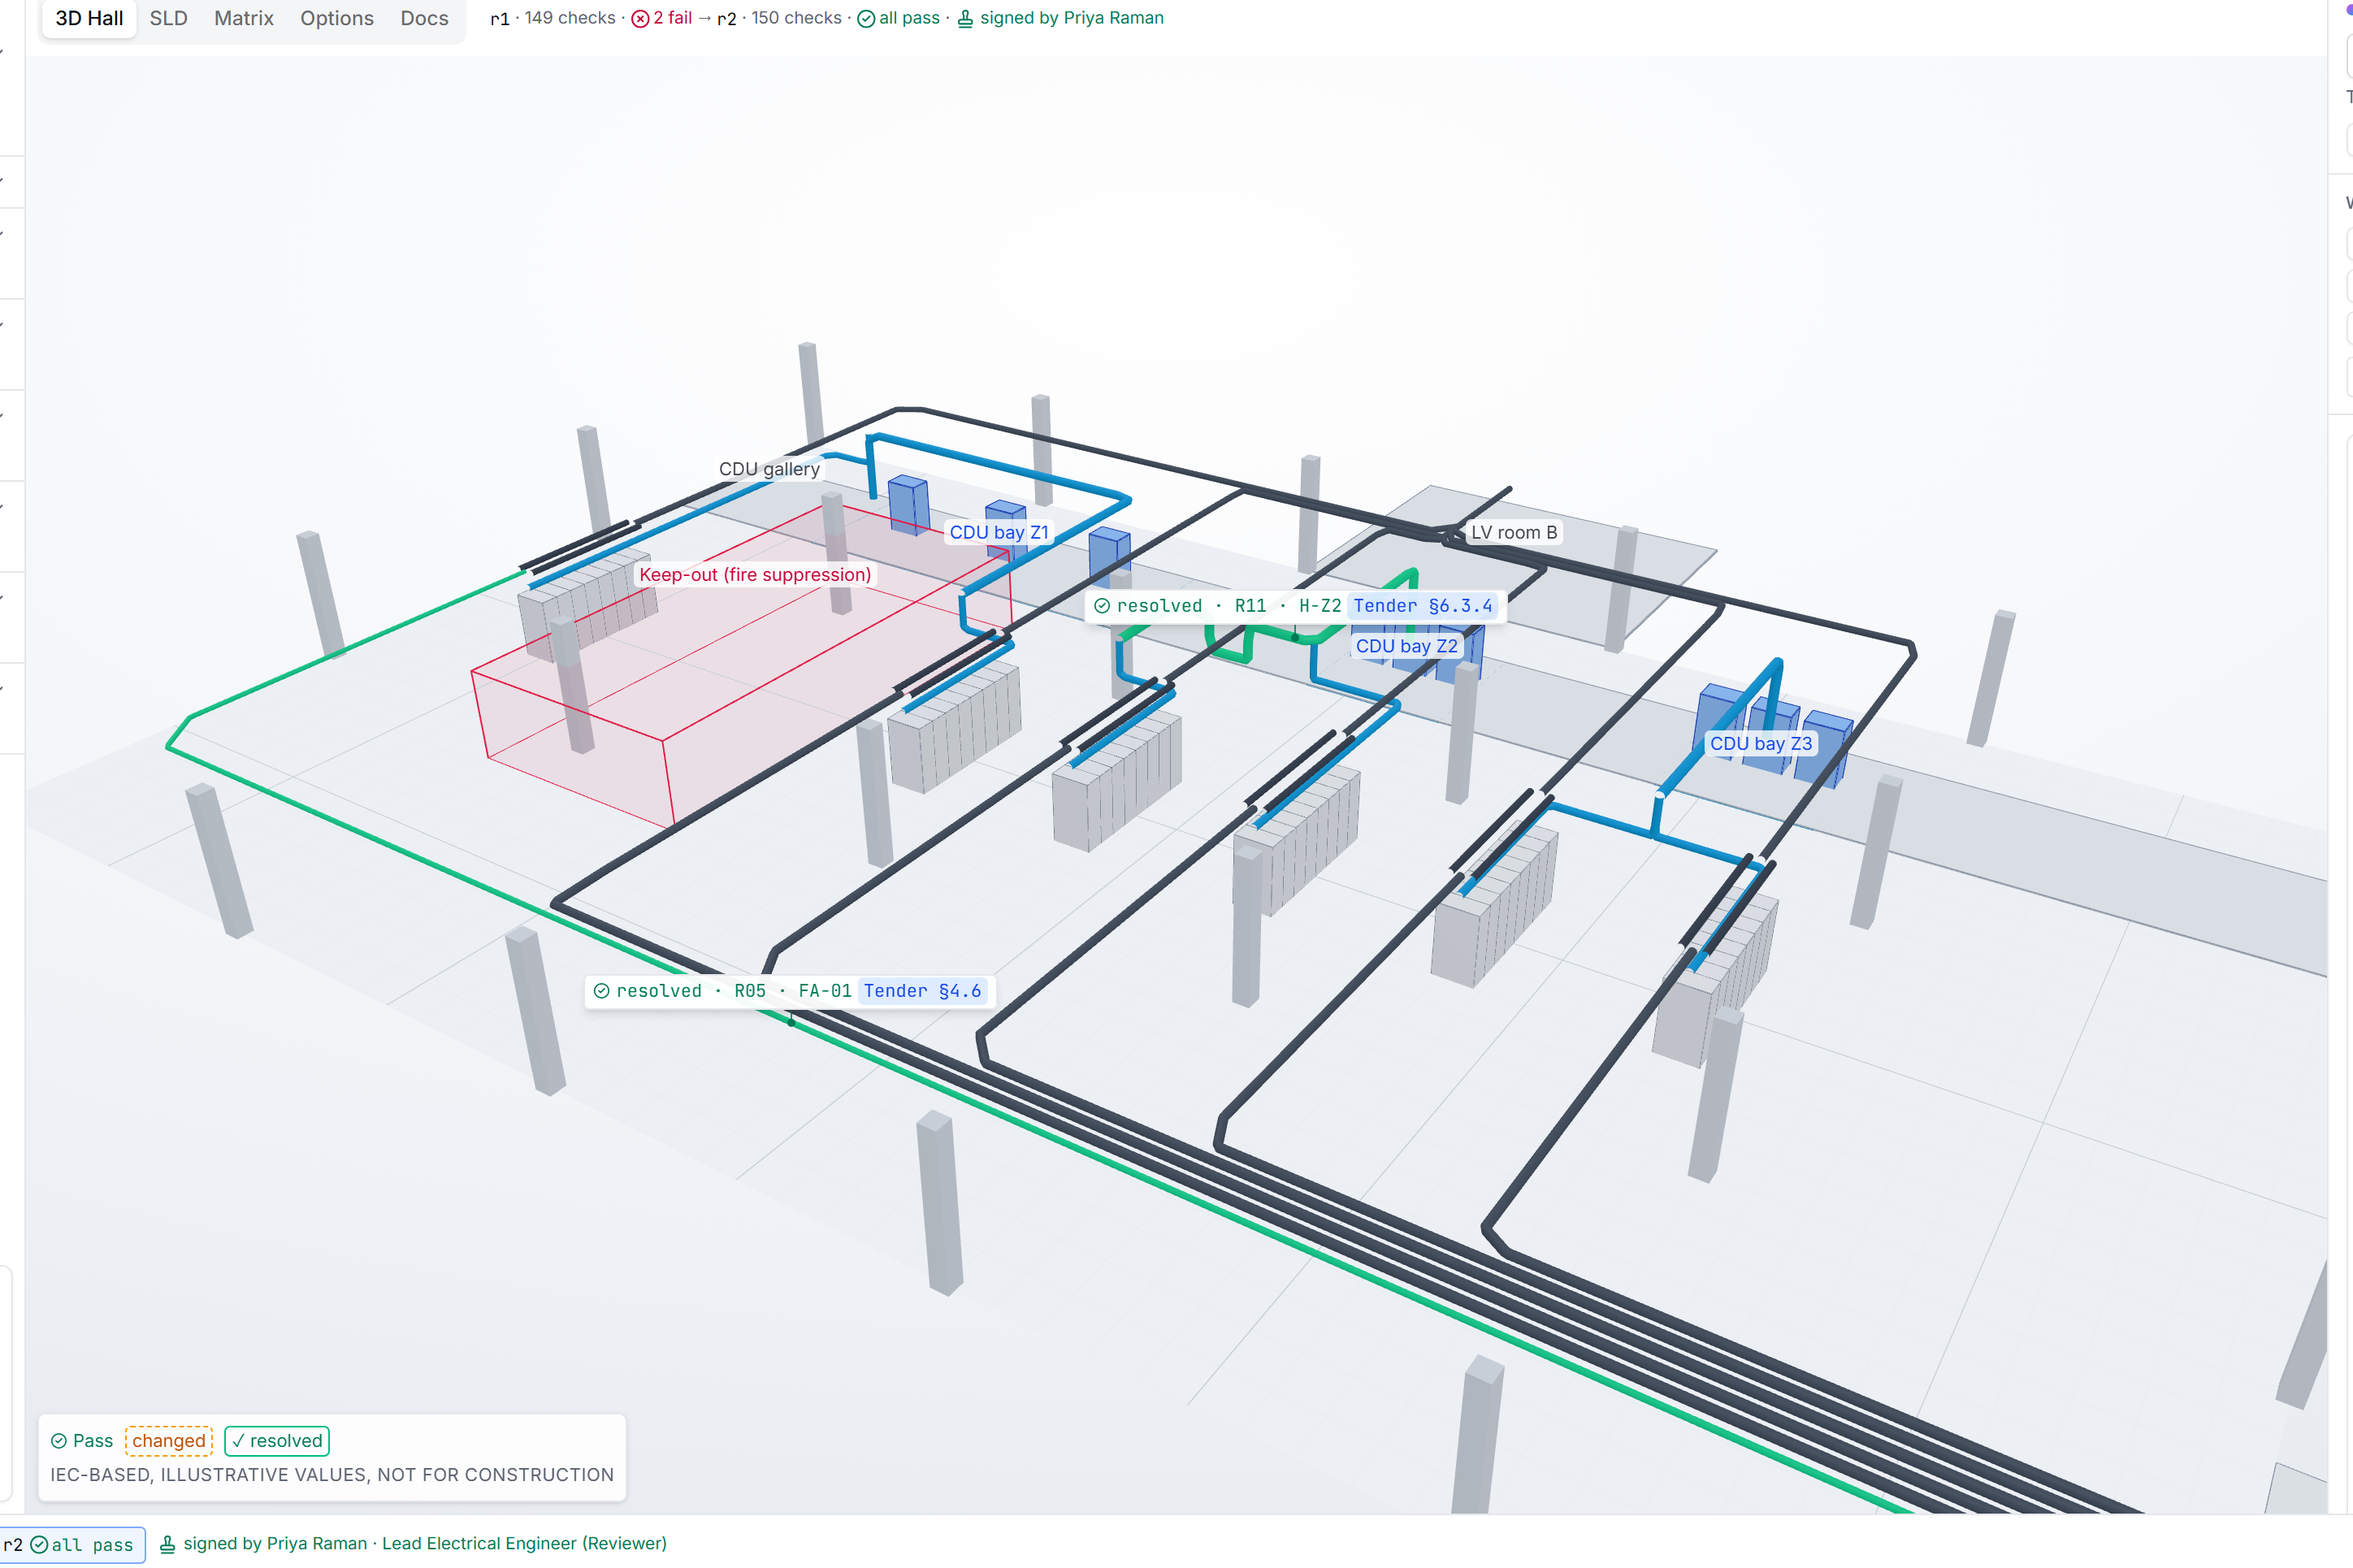
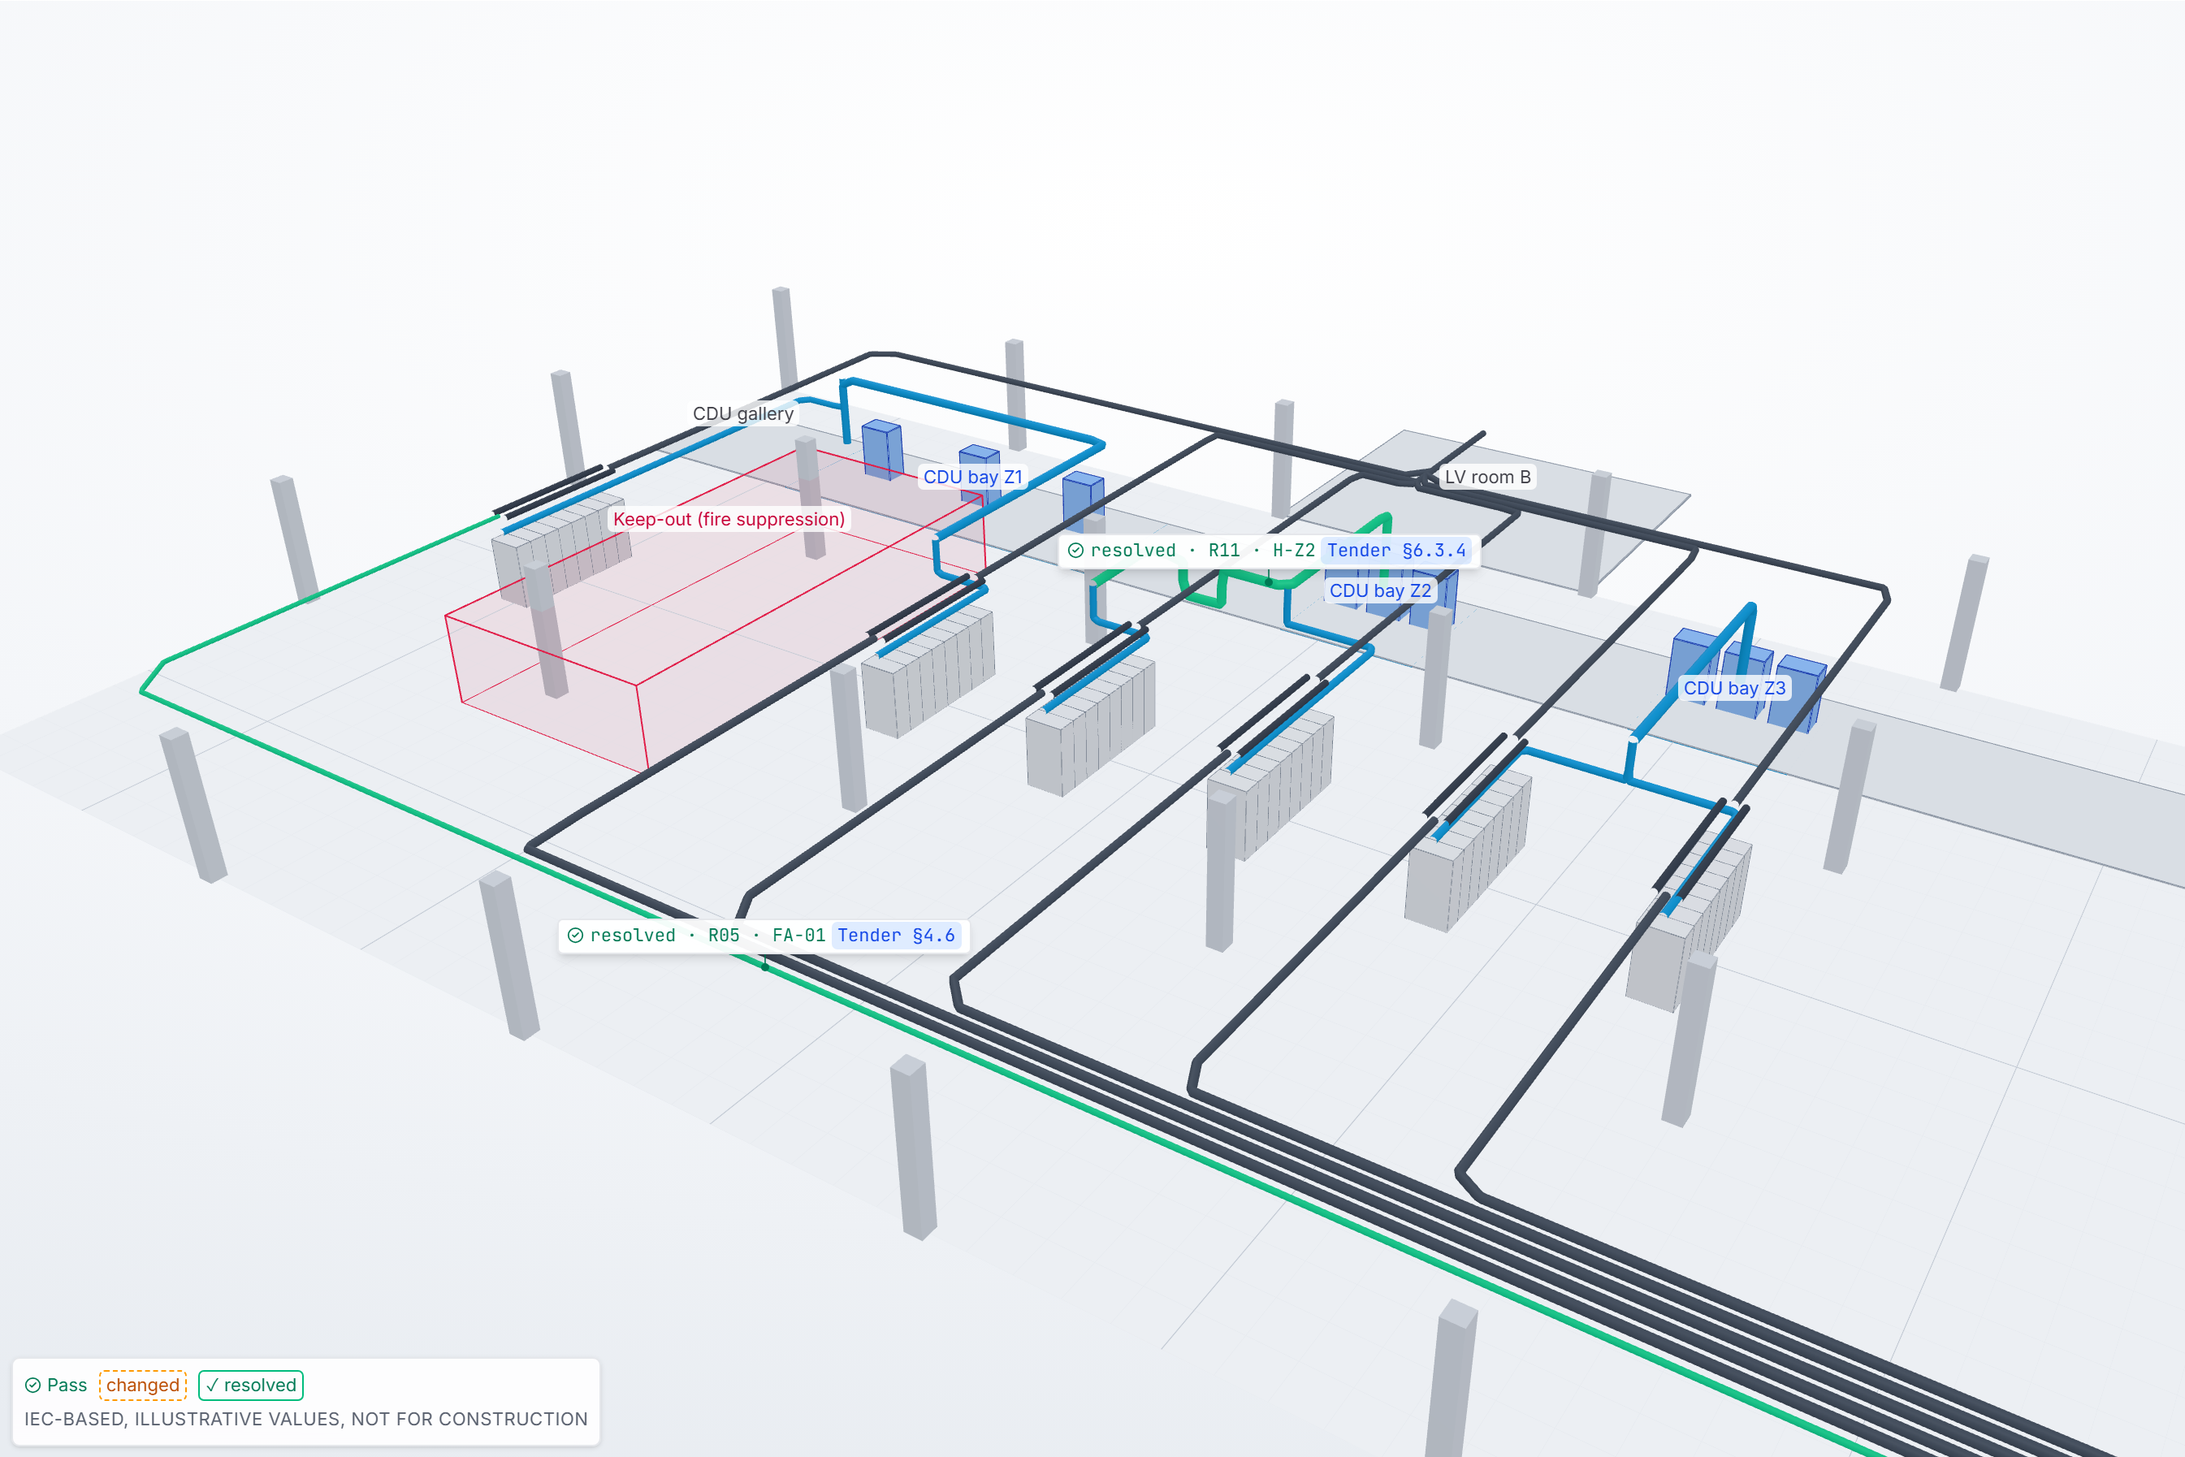
fix(e2e): the deck shots spec never overwrites the two hand-captured shots; s07 is clipped to its content, s05-2 to the 3D canvas, no focus ring in the drawers; README rows say what the images show
Review round 1: s05-6 and s11-2 were marked live but only opened a page, so
SHOTS_WRITE=1 E2E_LIVE=1 replaced the curated live frames with wrong screens (now
skipped always); the full-height drawer made s07 a third blank, rendering its text
at about 3 pt on the slide; the 3D tile caught the tab strip and footer; the
README rows for s11-2, s11-4, s11-6 and s13-grid described detail the app cannot
show. The crop-inside tile rule is opt-in (only s05-2): applied to cards it cut
their content.

diff --git a/e2e/shots/capture.spec.ts b/e2e/shots/capture.spec.ts
@@ -16,7 +16,8 @@ import type { Locator, Page } from '@playwright/test'
  *                      E2E_LOCAL=1 E2E_SHOTS=1 npx playwright test --project=shots
  *   final capture      after the UI freeze and the golden-capture deploy, against the deployed site:
  *                      E2E_BASE_URL=https://kirchhoff.web.app E2E_SHOTS=1 SHOTS_WRITE=1 npx playwright test --project=shots
- *   live-only shots    (Hall B live run, voice) also need E2E_LIVE=1: they call the deployed agents.
+ *   manual shots       s05-6 (a real Gemini Live exchange) and s11-2 (a frame of a live Hall B run) are captured by hand on the deployed site, because
+ *                      they need the deployed agents and a run; this spec SKIPS them always, so it can never overwrite them with a wrong screen.
  */
 const HERE = path.dirname(fileURLToPath(import.meta.url))
 const ROOT = path.resolve(HERE, '..', '..')
@@ -30,6 +31,10 @@ type Shot = {
   /** An explicit crop (CSS pixels) for a tile whose element is the whole page, where the element's own box would catch the fixed side panels. */
   clipOf?: (page: Page) => Promise<{ x: number; y: number; width: number; height: number }>
   live?: boolean
+  /** Captured by hand (see the header); the spec never touches the file. */
+  manual?: boolean
+  /** Crop INSIDE the element (see tileClip): for a canvas that is already wider than the tile, where growing the crop would catch the tab strip around it. */
+  inside?: boolean
 }
 
 const LONG = { timeout: 60_000 }
@@ -65,8 +70,11 @@ const SHOTS: Shot[] = [
   },
   {
     file: 's05-2-hall-3d-tiers.png',
+    inside: true,
     open: async (page) => {
       await workspace(page, '?tab=hall')
+      await text(page, 'CDU gallery') // a label of the drawn scene: the lazy-loaded hall has rendered, not just the empty canvas
+      await settle(page, 1000)
       return page.locator('canvas').first()
     },
   },
@@ -97,7 +105,7 @@ const SHOTS: Shot[] = [
       return chain
     },
   },
-  { file: 's05-6-copilot-voice.png', live: true, open: async (page) => { await workspace(page) } },
+  { file: 's05-6-copilot-voice.png', manual: true, open: async () => {} },
   {
     file: 's05-7-review-stamp.png',
     open: async (page) => {
@@ -141,7 +149,21 @@ const SHOTS: Shot[] = [
       const drawer = page.getByRole('dialog').first()
       await expect(drawer).toContainText('2.16%')
       await expect(drawer).toContainText('§4.6')
-      return drawer
+    },
+    // The drawer is a full-height side sheet and its content ends about two thirds down: clip to the lowest text plus a margin, so the PNG is not a third blank
+    // (a blank third made the slide's 3.9 in slot render the drawer text at about 3 pt).
+    clipOf: async (page) => {
+      const drawer = page.getByRole('dialog').first()
+      const b = (await drawer.boundingBox())!
+      const bottom = await drawer.evaluate((el) => {
+        let max = 0
+        el.querySelectorAll('*').forEach((n) => {
+          const r = n.getBoundingClientRect()
+          if (n.children.length === 0 && (n.textContent ?? '').trim() && r.width > 0 && r.height > 0) max = Math.max(max, r.bottom)
+        })
+        return max
+      })
+      return { x: b.x, y: b.y, width: b.width, height: Math.min(b.height, bottom - b.y + 24) }
     },
   },
   {
@@ -153,7 +175,7 @@ const SHOTS: Shot[] = [
       await settle(page, 1000)
     },
   },
-  { file: 's11-2-hall-b-live-run.png', live: true, open: async (page) => { await page.goto('/app/p/hall-b') } },
+  { file: 's11-2-hall-b-live-run.png', manual: true, open: async () => {} },
   {
     file: 's11-3-finding-drawer-r11.png',
     open: async (page) => {
@@ -224,11 +246,16 @@ const TILES = new Set(['s05-1-intake-quotes.png', 's05-2-hall-3d-tiers.png', 's0
 /** Crops are taken at 2x pixel density, so a small element is still sharp on a slide; full-screen shots stay at 1x (1920 x 1080). */
 const SHARP = new Set([...TILES, 's07-finding-drawer-r05.png'])
 
-async function tileClip(page: Page, target: Locator, ratio = 3 / 2, pad = 16) {
+async function tileClip(page: Page, target: Locator, ratio = 3 / 2, pad = 16, inside = false) {
   await target.scrollIntoViewIfNeeded()
   const b = await target.boundingBox()
   if (!b) return null
   const vp = page.viewportSize() ?? { width: 1920, height: 1080 }
+  // Opt-in (`inside`, only the 3D canvas): an element already at least as wide as the ratio is cropped INSIDE itself, trimming the width from the right (the
+  // canvas's legend sits at its left edge), so the crop never reaches the tab strip or the footer around it. Not for cards or figures: it would cut their content.
+  if (inside && b.width / b.height >= ratio && b.height <= vp.height) {
+    return { x: b.x, y: b.y, width: b.height * ratio, height: b.height }
+  }
   let x = Math.max(0, b.x - pad), y = Math.max(0, b.y - pad)
   let w = Math.min(b.width + 2 * pad, vp.width), h = Math.min(b.height + 2 * pad, vp.height)
   if (b.height > vp.height) h = Math.min(w / ratio, vp.height) // taller than the screen: keep the top part
@@ -252,6 +279,7 @@ for (const [scale, group] of [[2, SHOTS.filter((s) => SHARP.has(s.file))], [1, S
     test.use({ deviceScaleFactor: scale })
     for (const shot of group) {
   test(shot.file, async ({ page }) => {
+    test.skip(shot.manual === true, 'captured by hand on the deployed site (see the header and the README); never rewritten here')
     test.skip(shot.live === true && process.env.E2E_LIVE !== '1', 'needs the deployed agents: set E2E_LIVE=1')
     test.setTimeout(150_000)
     await page.setViewportSize({ width: 1920, height: 1080 })
@@ -259,8 +287,9 @@ for (const [scale, group] of [[2, SHOTS.filter((s) => SHARP.has(s.file))], [1, S
     // The banner must be visible in every capture: full-screen shots show it; for a crop, check it is on the page.
     // (By text, not by role: an open finding drawer is a modal and hides the banner from the accessibility tree.)
     await expect(page.getByText('all companies, people and data are fictional').first()).toBeVisible()
+    if (await page.getByRole('dialog').count()) await page.evaluate(() => (document.activeElement as HTMLElement | null)?.blur?.()) // the open drawer focuses its first button: no focus ring in the picture
     const file = path.join(OUT, shot.file)
-    const clip = shot.clipOf ? await shot.clipOf(page) : target && TILES.has(shot.file) ? await tileClip(page, target) : null
+    const clip = shot.clipOf ? await shot.clipOf(page) : target && TILES.has(shot.file) ? await tileClip(page, target, 3 / 2, 16, shot.inside) : null
     if (clip) await page.screenshot({ path: file, clip })
     else if (target) await target.screenshot({ path: file })
     else await page.screenshot({ path: file })

diff --git a/docs/submission/deck/shots/README.md b/docs/submission/deck/shots/README.md
@@ -15,19 +15,19 @@ This file is regenerated by every build from `../../deck-content.md`.
 | `s05-3-compliance-matrix.png` | 5 | tight crop of the named element, about 3:2 (centre-cropped to fit) | compliance matrix |
 | `s05-4-option-r15-swap.png` | 5 | tight crop of the named element, about 3:2 (centre-cropped to fit) | option card showing the R15 swap |
 | `s05-5-impact-chain.png` | 5 | tight crop of the named element, about 3:2 (centre-cropped to fit) | impact chain lit in two colours |
-| `s05-6-copilot-voice.png` | 5 | tight crop of the named element, about 3:2 (centre-cropped to fit) | co-pilot voice button with on-screen transcript |
+| `s05-6-copilot-voice.png` | 5 | tight crop of the named element, about 3:2 (centre-cropped to fit) | co-pilot voice button with on-screen transcript. Captured by hand on the deployed site (a real Gemini Live exchange); `capture.spec.ts` skips it, so it is never overwritten. |
 | `s05-7-review-stamp.png` | 5 | tight crop of the named element, about 3:2 (centre-cropped to fit) | review stamp with hash |
 | `s05-8-integrations.png` | 5 | tight crop of the named element, about 3:2 (centre-cropped to fit) | Integrations page |
 | `s05-9-solar-field.png` | 5 | tight crop of the named element, about 3:2 (centre-cropped to fit) | Solar field layout |
-| `s07-finding-drawer-r05.png` | 7 | portrait crop of the drawer, about 2:3 | Finding drawer open on R05 for FA-01: 82 m feeder, ΔV 2.16% against the 2.0% limit, §4.6 chip; fix options "2,000 A busway · 1.66% · +$11,480" and "parallel cable · 0.84% · +$15,580". |
+| `s07-finding-drawer-r05.png` | 7 | portrait crop of the drawer, trimmed to its content (the panel is full height and its content ends about two thirds down; about 0.55 wide to tall) | Finding drawer open on R05 for FA-01: 82 m feeder, ΔV 2.16% against the 2.0% limit, §4.6 chip; fix options "2,000 A busway · 1.66% · +$11,480" and "parallel cable · 0.84% · +$15,580". |
 | `s11-1-projects-dashboard.png` | 11 | 16:9 full screen | Projects dashboard. Hall A "Signed", Hall B "Not started", Grid and Solar cards; fictional-data banner visible. |
-| `s11-2-hall-b-live-run.png` | 11 | 16:9 full screen | Workspace during the Hall B live run. Power and Cooling lanes both active; elapsed-time clock; SLD staging in. |
+| `s11-2-hall-b-live-run.png` | 11 | 16:9 full screen | Workspace during the Hall B live run (Auto mode, t=150 s). Power and Cooling lanes both Working; elapsed-time clock; the 3D hall drawn from the first revision with its two findings (the SLD tab is not the one open during a run). Captured by hand on the deployed site (a frame of a live run); `capture.spec.ts` skips it. |
 | `s11-3-finding-drawer-r11.png` | 11 | 16:9 full screen | 3D hall, R11 finding drawer open. H-Z2 red where it crosses FB-03; §6.3.4 clause chip; both fix options with cost deltas. |
-| `s11-4-options-r15-swap.png` | 11 | 16:9 full screen | Options tab, 2N card. "2.5 MVA · stock 0 · 98 wk > 26 wk (§2.3)" struck through; "3.15 MVA · stock 6 · 38.07% / 76.15%"; fault level 65.42 kA. |
+| `s11-4-options-r15-swap.png` | 11 | 16:9 full screen | Options tab, 2N card Selected, with its swap line "TX-2500 → TX-3150 (R15, line transformer)" and loading 38.07% / 76.15%. The card shows the swap and its reason; it does not show the stock and lead-time figures. |
 | `s11-5-what-if-200kw.png` | 11 | 16:9 full screen | What-if at 200 kW per rack. Impact chain lit rack → busway → board → transformer (power colour) and rack → zone → CDU (cooling colour); counters "60 findings · 18 impact chains". |
-| `s11-6-review-approved.png` | 11 | 16:9 full screen | Review page after approval. Diff, ledger with its "not checked" list, stamp "You (Demo Reviewer) · time · revision hash". |
+| `s11-6-review-approved.png` | 11 | 16:9 full screen | Review page after approval, of the recorded Hall A run. Diff, ledger with its "not checked" list, stamp "Priya Raman · Lead Electrical Engineer (Reviewer) · time · revision hash" (a live approval would read "You (Demo Reviewer)"). |
 | `s12-compliance-matrix-first-pass.png` | 12 | 16:9 full screen | Compliance matrix at the end of the first pass. Counter "149 checks · 147 pass · 2 fail" with the two red cells (R05 FA-01, R11 H-Z2). |
-| `s13-grid-pack.png` | 13 | 16:9 full screen | Grid pack. 132 kV line on the static map, conductor comparison cards, mini SLD. |
+| `s13-grid-pack.png` | 13 | 16:9 full screen | Grid pack. The 132 kV route drawn as a line (drawn geometry, not a basemap), the conductor comparison table, mini SLD. |
 | `s13-solar-pack.png` | 13 | 16:9 full screen | Solar pack. Field layout with tables; card "STR-28 recommended · 327 tables · ~5,036 kWp · DC/AC 1.26 · clear-sky yield ~2,639 kWh/kWp (clear-sky only)". |
 
 Team headshots for slide 15 are set in `../fill.yaml` (`photos.mehul`, `photos.jayadratha`).
